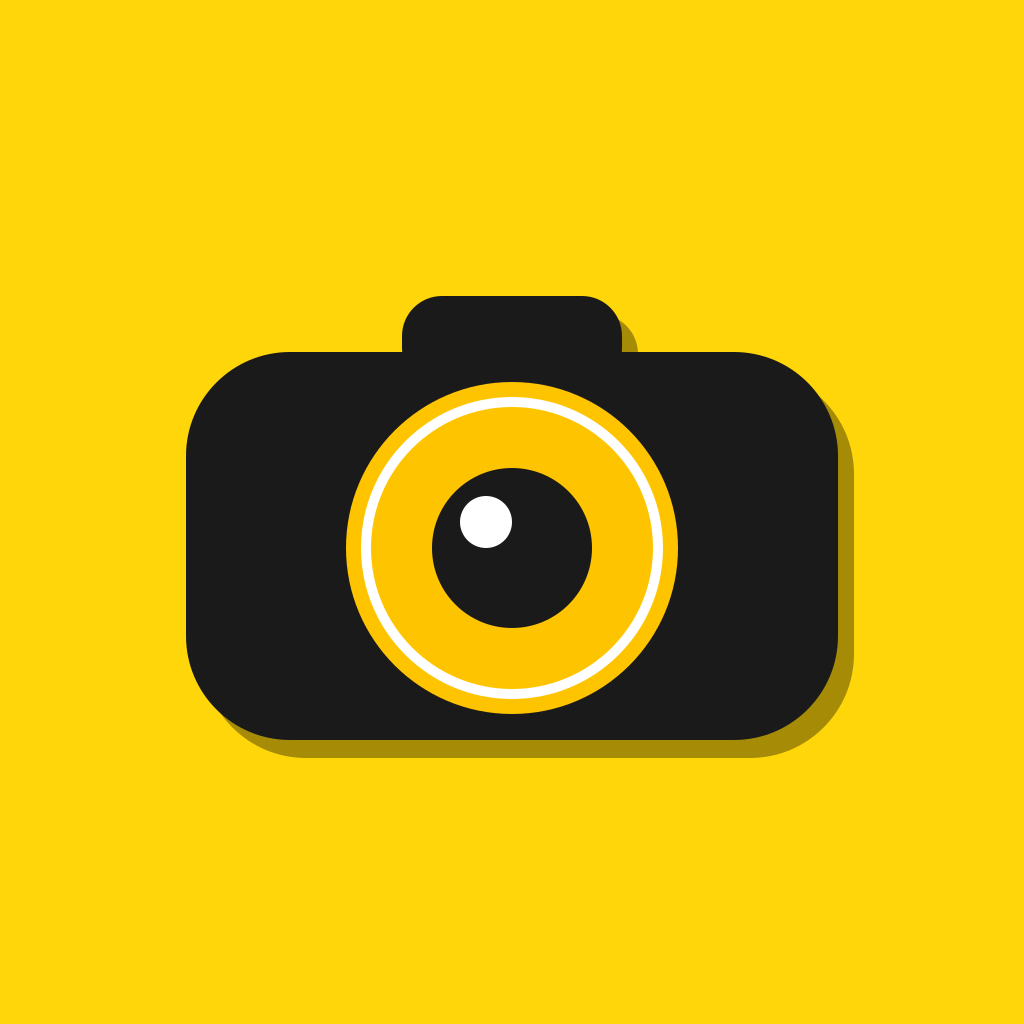
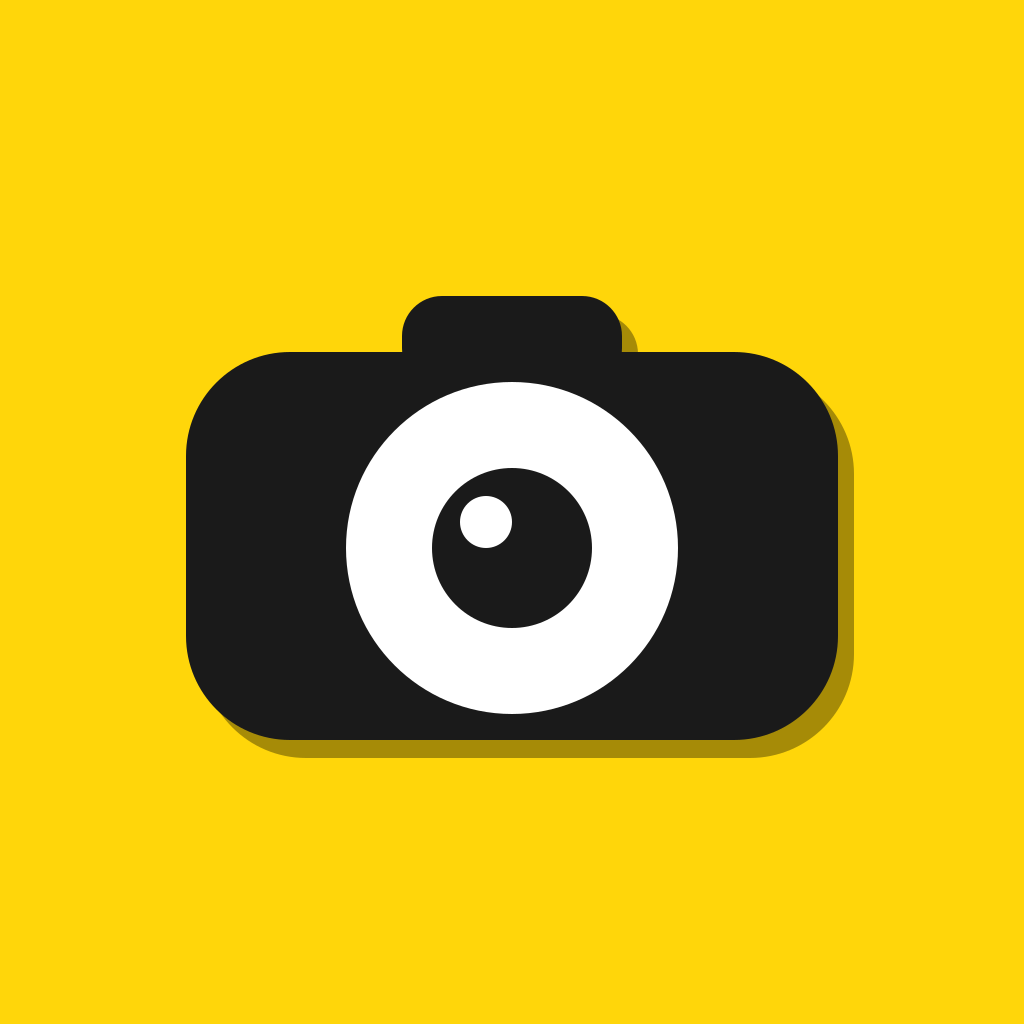
fix: flip left/right swipe (right=next), lens disc white, save without confirm + filtered photo, white letterbox result view

Changed region(s): [[0.3125, 0.375, 0.6875, 0.7188]]

diff --git a/web/index.html b/web/index.html
@@ -405,26 +405,26 @@
         }
 
         /* 结果页 */
-        .result-view { position:absolute; inset:0; background:#000; z-index:200; display:none; flex-direction:column; }
+        .result-view { position:absolute; inset:0; background:#fff; z-index:200; display:none; flex-direction:column; }
         .result-view.show { display:flex; }
         .result-top-bar {
             position:absolute; top:0; left:0; right:0; z-index:20;
             display:flex; justify-content:space-between; align-items:center;
             padding:44px 16px 10px;
-            background:linear-gradient(to bottom,rgba(0,0,0,0.4),transparent);
+            background:linear-gradient(to bottom,rgba(255,255,255,0.97),transparent);
         }
         .r-top-btn {
             width:38px; height:38px; border-radius:50%;
-            background:rgba(0,0,0,0.3); backdrop-filter:blur(10px);
-            border:none; color:#fff;
+            background:rgba(255,255,255,0.85); backdrop-filter:blur(10px);
+            border:none; color:#111;
             display:flex; align-items:center; justify-content:center; cursor:pointer;
             transition:all 0.2s; font-size:20px;
         }
         .r-top-btn:active { transform:scale(0.9); opacity:0.6; }
         .r-top-btn svg { width:18px; height:18px; stroke:currentColor; stroke-width:2; stroke-linecap:round; stroke-linejoin:round; fill:none; }
-        .result-photo { position:relative; flex:1; display:flex; align-items:center; justify-content:center; overflow:hidden; background:#000; }
-        #resultImg { max-width:100%; max-height:100%; object-fit:contain; transition:filter 0.4s cubic-bezier(0.25,0.46,0.45,0.94); }
-        #resultVideo { max-width:100%; max-height:100%; object-fit:contain; transition:filter 0.4s cubic-bezier(0.25,0.46,0.45,0.94); }
+        .result-photo { position:relative; flex:1; display:flex; align-items:center; justify-content:center; overflow:hidden; background:#fff; }
+        #resultImg { max-width:100%; max-height:100%; object-fit:contain; transition:filter 0.4s cubic-bezier(0.25,0.46,0.45,0.94); box-shadow:0 8px 30px rgba(0,0,0,0.12); border-radius:2px; }
+        #resultVideo { max-width:100%; max-height:100%; object-fit:contain; transition:filter 0.4s cubic-bezier(0.25,0.46,0.45,0.94); box-shadow:0 8px 30px rgba(0,0,0,0.12); border-radius:2px; }
 
         .r-filter-name { display:none; }
 
@@ -461,22 +461,22 @@
 
         .r-bottom {
             position:absolute; bottom:0; left:0; right:0; z-index:20;
-            background:linear-gradient(to top,rgba(0,0,0,0.6),transparent);
+            background:linear-gradient(to top,rgba(255,255,255,0.97),transparent);
             padding:20px 0 34px;
         }
         .r-hint-row { text-align:center; padding-bottom:12px; }
-        .r-hint { font-size:9px; color:rgba(255,255,255,0.4); letter-spacing:1px; }
+        .r-hint { font-size:9px; color:rgba(0,0,0,0.45); letter-spacing:1px; }
         .r-actions { display:flex; justify-content:space-around; align-items:center; padding:0 40px; }
-        .r-act { display:flex; flex-direction:column; align-items:center; gap:6px; background:none; border:none; color:#fff; cursor:pointer; font-size:10px; font-weight:600; letter-spacing:0.5px; }
+        .r-act { display:flex; flex-direction:column; align-items:center; gap:6px; background:none; border:none; color:#222; cursor:pointer; font-size:10px; font-weight:600; letter-spacing:0.5px; }
         .r-act:active { transform:scale(0.9); opacity:0.6; }
         .r-act-ic {
             width:48px; height:48px; border-radius:50%;
-            background:rgba(255,255,255,0.15); backdrop-filter:blur(10px);
+            background:rgba(0,0,0,0.06); backdrop-filter:blur(10px);
             display:flex; align-items:center; justify-content:center;
             font-size:20px;
         }
         .r-act.save .r-act-ic {
-            background:#fff; color:#222;
+            background:#111; color:#fff;
             width:56px; height:56px;
         }
         .r-act.save { font-weight:700; }
@@ -1238,7 +1238,7 @@
             <svg class="brand-mark" viewBox="0 0 1024 1024" aria-hidden="true">
                 <g transform="translate(-13,-10)" opacity="0.35"><g fill="#000000"><rect x="402" y="296" width="220" height="92" rx="40"/><rect x="186" y="352" width="652" height="388" rx="104"/></g></g>
                 <g fill="#1A1A1A"><rect x="402" y="296" width="220" height="92" rx="40"/><rect x="186" y="352" width="652" height="388" rx="104"/></g>
-                <circle cx="512" cy="548" r="166" fill="#FFC400"/>
+                <circle cx="512" cy="548" r="166" fill="#FFFFFF"/>
                 <circle cx="512" cy="548" r="146" fill="none" stroke="#FFFFFF" stroke-width="9"/>
                 <circle cx="512" cy="548" r="80" fill="#1A1A1A"/>
                 <circle cx="486" cy="522" r="25" fill="#FFFFFF"/>
@@ -4767,25 +4767,22 @@ function resetResultView(){
 }
 $('rGenBtn').onclick=()=>runFilterGeneration('next');
 $('rSave').onclick=async ()=>{
-    showConfirmModal('Save to Photos?','The photo will be saved to your device album.','Save','Cancel',async (ok)=>{
-        if(!ok)return;
-        if(state.capturedVideo){
-            // 保存视频：原生写入系统相册，网页端下载
-            if(await nativeSaveVideo(state.capturedVideo)){ showSuccessHud('Saved'); return; }
-            const a=document.createElement('a');
-            a.download=`TikCam_Video_${Date.now()}.webm`;
-            a.href=state.capturedVideo;
-            a.click();
-            showSuccessHud('Saved');
-            return;
-        }
-        const oc=document.createElement('canvas');const octx=oc.getContext('2d');const img=new Image();img.src=state.captured;
-        img.onload=async ()=>{oc.width=img.width;oc.height=img.height;octx.filter=buildFilter(state.currentFilter,state.adjustments);octx.drawImage(img,0,0);
-            const url=oc.toDataURL('image/jpeg',0.92);
-            if(await nativeSaveImage(url)){ showSuccessHud('Saved'); return; }
-            downloadDataUrl(url,`TikCam_${Date.now()}.jpg`);
-            showSuccessHud('Saved');};
-    });
+    if(state.capturedVideo){
+        // 保存视频：原生写入系统相册，网页端下载
+        if(await nativeSaveVideo(state.capturedVideo)){ showSuccessHud('Saved'); return; }
+        const a=document.createElement('a');
+        a.download=`TikCam_Video_${Date.now()}.webm`;
+        a.href=state.capturedVideo;
+        a.click();
+        showSuccessHud('Saved');
+        return;
+    }
+    const oc=document.createElement('canvas');const octx=oc.getContext('2d');const img=new Image();img.src=state.captured;
+    img.onload=async ()=>{oc.width=img.width;oc.height=img.height;octx.filter=buildFilter(state.currentFilter,state.adjustments);octx.drawImage(img,0,0);
+        const url=oc.toDataURL('image/jpeg',0.92);
+        if(await nativeSaveImage(url)){ showSuccessHud('Saved'); return; }
+        downloadDataUrl(url,`TikCam_${Date.now()}.jpg`);
+        showSuccessHud('Saved');};
 };
 $('rAdjust').onclick=()=>toggleAdjust();
 $('adjClose').onclick=()=>toggleAdjust(false);
@@ -4816,11 +4813,11 @@ function swipeEnd(e){
     const dx=state._startX-t.clientX;
     const dy=state._startY-t.clientY;
     const absX=Math.abs(dx), absY=Math.abs(dy);
-    // 判断主要滑动方向，阈值 28px：左滑/下滑=下一个，右滑/上滑=上一个
+    // 判断主要滑动方向，阈值 28px：右滑/下滑=下一个，左滑/上滑=上一个
     if(Math.max(absX,absY)>28&&!state.holding){
         if($('resultView').classList.contains('show')||state.liveInitialized){
             let dir;
-            if(absX>absY){ dir=dx>0?'next':'prev'; }
+            if(absX>absY){ dir=dx<0?'next':'prev'; }
             else { dir=dy<0?'next':'prev'; }
             runFilterGeneration(dir);
         }
